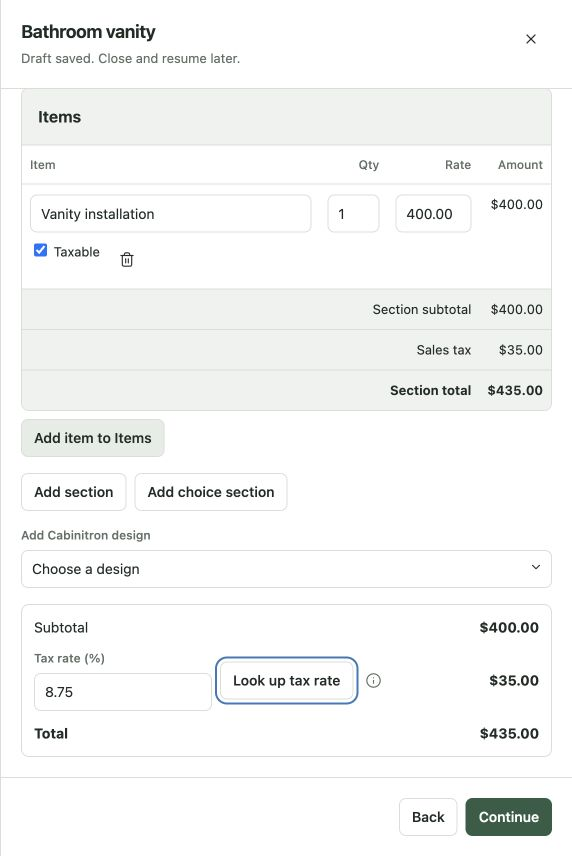
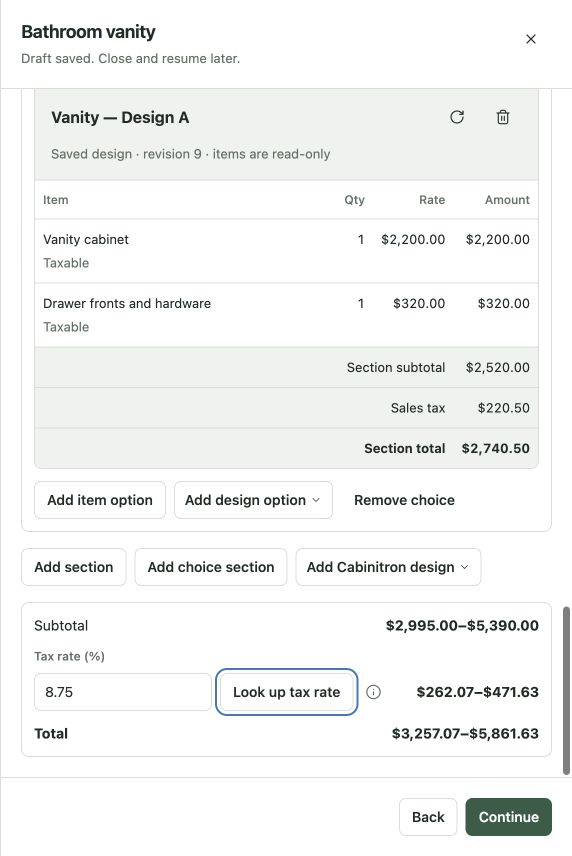
Refine estimate buttons and tax control alignment (#23)
* Use consistent buttons for adding estimate designs

* Match button typography and align estimate tax controls

* Remove unnecessary line-item instruction tooltip

diff --git a/apps/catalog/src/EstimateWorkflowPrototype.tsx b/apps/catalog/src/EstimateWorkflowPrototype.tsx
@@ -1,4 +1,4 @@
-import { useEffect, useRef, useState } from "react";
+import { useEffect, useId, useRef, useState } from "react";
 import * as stylex from "@stylexjs/stylex";
 import {
   Button,
@@ -6,6 +6,7 @@ import {
   DocumentChoiceGroup,
   DocumentSection,
   IconButton,
+  MenuButton,
   InfoTooltip,
   Select,
   SidePanel,
@@ -15,7 +16,7 @@ import {
   type WorkflowStep,
 } from "@from-trees/ui";
 import { layout, gap, padding } from "@from-trees/ui/utilities";
-import { color } from "@from-trees/ui/tokens.stylex";
+import { color, metrics } from "@from-trees/ui/tokens.stylex";
 
 type Row = {
   id: string;
@@ -146,6 +147,12 @@ const s = stylex.create({
     lineHeight: 1.5,
     overflowWrap: "anywhere",
   },
+  taxLabel: {
+    fontSize: metrics.small,
+    fontWeight: 550,
+    color: color.muted,
+    lineHeight: 1.4,
+  },
   field: { minWidth: 120 },
   qty: { width: 52 },
   rate: { width: 76 },
@@ -173,6 +180,7 @@ const s = stylex.create({
 
 /** Interactive catalog composition. All customers, prices, designs and delivery are synthetic. */
 export function EstimateWorkflowPrototype() {
+  const taxInputId = useId();
   const [draft, setDraft] = useState<Draft>(initial),
     [stored, setStored] = useState<Draft | null>(read),
     [open, setOpen] = useState(false),
@@ -313,6 +321,23 @@ export function EstimateWorkflowPrototype() {
     net: subtotal(g),
     tax: total(g, draft.tax) - subtotal(g),
   });
+  const designButton = (choiceId?: string, choiceTitle?: string) => {
+    const text = choiceId ? "Add design option" : "Add Cabinitron design";
+    return locked ? (
+      <Button isDisabled>{text}</Button>
+    ) : (
+      <MenuButton
+        icon={null}
+        text={text}
+        label={choiceId ? `Add design option to ${choiceTitle}` : text}
+        actions={designs.map((name) => ({
+          id: name,
+          label: name,
+          onAction: () => addDesign(name, choiceId),
+        }))}
+      />
+    );
+  };
   const renderGroup = (g: Group, review = false) => {
     const sums = amount(g);
     return (
@@ -553,17 +578,7 @@ export function EstimateWorkflowPrototype() {
                 >
                   Add item option
                 </Button>
-                <Select
-                  aria-label={`Add design option to ${b.title}`}
-                  value=""
-                  disabled={locked}
-                  onChange={(e) => addDesign(e.target.value, b.id)}
-                >
-                  <option value="">Add design option</option>
-                  {designs.map((name) => (
-                    <option key={name}>{name}</option>
-                  ))}
-                </Select>
+                {designButton(b.id, b.title)}
                 <Button
                   variant="ghost"
                   isDisabled={locked}
@@ -582,70 +597,91 @@ export function EstimateWorkflowPrototype() {
       );
   const formattedRange = ([min, max]: [number, number]) =>
     min === max ? money(min) : `${money(min)}–${money(max)}`;
-  const renderSummary = (editable: boolean) => (
-    <section
-      aria-label="Estimate summary"
-      {...stylex.props(s.card, padding.md, layout.stack, gap.md)}
-    >
-      <div {...stylex.props(layout.row, layout.between, gap.sm)}>
-        <span>Subtotal</span>
-        <strong>{formattedRange(range(draft, subtotal))}</strong>
-      </div>
-      <div
-        {...stylex.props(
-          layout.row,
-          layout.wrap,
-          layout.between,
-          layout.alignCenter,
-          gap.sm,
-        )}
+  const renderSummary = (editable: boolean) => {
+    const taxAmount = formattedRange(
+      range(draft, (g) => total(g, draft.tax) - subtotal(g)),
+    );
+    return (
+      <section
+        aria-label="Estimate summary"
+        {...stylex.props(s.card, padding.md, layout.stack, gap.md)}
       >
+        <div {...stylex.props(layout.row, layout.between, gap.sm)}>
+          <span>Subtotal</span>
+          <strong>{formattedRange(range(draft, subtotal))}</strong>
+        </div>
         {editable ? (
+          <div {...stylex.props(layout.stack, gap.sm)}>
+            <label
+              id={`${taxInputId}-label`}
+              htmlFor={taxInputId}
+              {...stylex.props(s.taxLabel)}
+            >
+              Tax rate (%)
+            </label>
+            <div
+              {...stylex.props(
+                layout.row,
+                layout.wrap,
+                layout.between,
+                layout.alignCenter,
+                gap.sm,
+              )}
+            >
+              <div
+                {...stylex.props(
+                  layout.row,
+                  layout.wrap,
+                  layout.alignCenter,
+                  gap.sm,
+                )}
+              >
+                <TextInput
+                  id={taxInputId}
+                  aria-labelledby={`${taxInputId}-label`}
+                  inputMode="decimal"
+                  value={draft.tax}
+                  disabled={locked}
+                  onChange={(e) => patch({ tax: e.target.value })}
+                />
+                <Button
+                  isDisabled={locked}
+                  onPress={() => {
+                    setFound(false);
+                    setTaxOpen(true);
+                  }}
+                >
+                  Look up tax rate
+                </Button>
+                <InfoTooltip label="tax rate">
+                  One rate from zero to one hundred percent applies to taxable
+                  rows. California lookup returns a sample rate in this catalog;
+                  applying it requires Update tax rate.
+                </InfoTooltip>
+              </div>
+              <strong aria-label="Estimate tax amount">{taxAmount}</strong>
+            </div>
+          </div>
+        ) : (
           <div
             {...stylex.props(
               layout.row,
-              layout.wrap,
+              layout.between,
               layout.alignCenter,
               gap.sm,
             )}
           >
-            <TextInput
-              label="Tax rate (%)"
-              inputMode="decimal"
-              value={draft.tax}
-              disabled={locked}
-              onChange={(e) => patch({ tax: e.target.value })}
-            />
-            <Button
-              isDisabled={locked}
-              onPress={() => {
-                setFound(false);
-                setTaxOpen(true);
-              }}
-            >
-              Look up tax rate
-            </Button>
-            <InfoTooltip label="tax rate">
-              One rate from zero to one hundred percent applies to taxable rows.
-              California lookup returns a sample rate in this catalog; applying
-              it requires Update tax rate.
-            </InfoTooltip>
+            <span>Sales tax ({draft.tax}%)</span>
+            <strong aria-label="Estimate tax amount">{taxAmount}</strong>
           </div>
-        ) : (
-          <span>Sales tax ({draft.tax}%)</span>
         )}
-        <strong aria-label="Estimate tax amount">
-          {formattedRange(
-            range(draft, (g) => total(g, draft.tax) - subtotal(g)),
-          )}
-        </strong>
-      </div>
-      <div {...stylex.props(layout.row, layout.between, gap.sm)}>
-        <strong>Total</strong>
-        <strong>{formattedRange([low, high])}</strong>
-      </div>
-    </section>
-  );
+        <div {...stylex.props(layout.row, layout.between, gap.sm)}>
+          <strong>Total</strong>
+          <strong>{formattedRange([low, high])}</strong>
+        </div>
+      </section>
+    );
+  };
   return (
     <section {...stylex.props(layout.stack, gap.lg)}>
       <h1 {...stylex.props(s.heading)}>Create an estimate</h1>
@@ -793,12 +829,6 @@ export function EstimateWorkflowPrototype() {
           )}
           {draft.step === 1 && (
             <>
-              <InfoTooltip label="line item values">
-                Use quantities greater than zero and prices at least zero.
-                Quantities round to three decimal places and USD prices round to
-                cents when leaving a field. Each choice requires at least two
-                complete alternatives. Tax applies only to taxable items.
-              </InfoTooltip>
               {renderBlocks()}
               <div {...stylex.props(layout.row, layout.wrap, gap.sm)}>
                 <Button
@@ -828,18 +858,9 @@ export function EstimateWorkflowPrototype() {
                 >
                   Add choice section
                 </Button>
+                {designButton()}
               </div>
-              <Select
-                label="Add Cabinitron design"
-                value=""
-                disabled={locked}
-                onChange={(e) => addDesign(e.target.value)}
-              >
-                <option value="">Choose a design</option>
-                {designs.map((name) => (
-                  <option key={name}>{name}</option>
-                ))}
-              </Select>
+
               {renderSummary(true)}
             </>
           )}

diff --git a/apps/catalog/test/EstimateWorkflowPrototype.test.tsx b/apps/catalog/test/EstimateWorkflowPrototype.test.tsx
@@ -106,9 +106,17 @@ it("edits rows directly, applies tax only through the lookup update and complete
 });
 it("adds read-only design rows immediately and invalidates the package when refreshing the design", async () => {
   const user = await start();
-  await user.selectOptions(
-    screen.getByLabelText("Add Cabinitron design"),
-    "Vanity — Design A",
+  expect(
+    screen.queryByRole("combobox", { name: "Add Cabinitron design" }),
+  ).not.toBeInTheDocument();
+  await user.click(
+    screen.getByRole("button", { name: "Add Cabinitron design", exact: true }),
+  );
+  await user.click(
+    await screen.findByRole("menuitem", {
+      name: "Vanity — Design A",
+      exact: true,
+    }),
   );
   expect(screen.getByText("Vanity cabinet")).toBeVisible();
   const header = screen
@@ -188,13 +196,29 @@ it("adds arbitrary saved designs as options without assuming a finish or prebuil
   expect(
     screen.queryByRole("heading", { name: "Option 1" }),
   ).not.toBeInTheDocument();
-  await user.selectOptions(
-    screen.getByLabelText("Add design option to Design options"),
-    "Vanity — Design A",
+  await user.click(
+    screen.getByRole("button", {
+      name: "Add design option to Design options",
+      exact: true,
+    }),
   );
-  await user.selectOptions(
-    screen.getByLabelText("Add design option to Design options"),
-    "Vanity — Design B",
+  await user.click(
+    await screen.findByRole("menuitem", {
+      name: "Vanity — Design A",
+      exact: true,
+    }),
+  );
+  await user.click(
+    screen.getByRole("button", {
+      name: "Add design option to Design options",
+      exact: true,
+    }),
+  );
+  await user.click(
+    await screen.findByRole("menuitem", {
+      name: "Vanity — Design B",
+      exact: true,
+    }),
   );
   const choice = screen.getByRole("group", { name: "Design options" });
   expect(

diff --git a/packages/ui/src/MenuButton.tsx b/packages/ui/src/MenuButton.tsx
@@ -29,6 +29,10 @@ const styles = stylex.create({
     boxSizing: "border-box",
     margin: 0,
     textTransform: "none",
+    fontFamily: "inherit",
+    fontSize: "inherit",
+    fontWeight: 550,
+    lineHeight: 1.3,
     display: "inline-flex",
     alignItems: "center",
     justifyContent: "center",
@@ -90,7 +94,7 @@ export function MenuButton({
   actions,
 }: {
   label?: string;
-  icon?: IconName;
+  icon?: IconName | null;
   text?: string;
   actions: readonly Action[];
 }) {
@@ -102,9 +106,11 @@ export function MenuButton({
         {...stylex.props(styles.trigger, !!text && styles.labeledTrigger)}
       >
         <span title={label} {...stylex.props(styles.triggerContents)}>
-          <Icon name={icon} size={18} />
+          {icon && <Icon name={icon} size={18} />}
           {text && <span>{text}</span>}
-          {(text || icon !== "more") && <Icon name="chevronDown" size={12} />}
+          {(text || (icon && icon !== "more")) && (
+            <Icon name="chevronDown" size={12} />
+          )}
         </span>
       </AriaButton>
       <Popover

diff --git a/docs/estimate-workflow.md b/docs/estimate-workflow.md
@@ -3,7 +3,7 @@
 Open **Create estimates** in the catalog, or `/?example=estimate-workflow`, then **Create new estimate**. This is a working catalog composition using the existing workflow side panel, WorkflowProgress, DocumentSection, DocumentChoiceGroup, fields, buttons and dialogs. The shared DocumentSection adds compact header actions, optional inline title/description editing and footer actions. DocumentChoiceGroup also supports inline title/description editing. These remain presentation callbacks; no application data model changes are included.
 
 1. **Start estimate** — enter the name, select/create a customer and choose an expiration date. Save and continue requires all three, and saves a resumable example draft. Closing and resuming restores edits and the current step.
-2. **Add line items** — edit descriptions, quantities, USD unit rates and Taxable flags in customer-style tables. Add sections with titles, descriptions and separate subtotals. Regular sections and choice options are each one card: click their header title or description to edit in place. Enter or blur saves, Escape cancels without closing the workflow. There are no duplicate metadata fields above the cards. Remove stays in the header; Add item stays inside the card footer. Create a choice section first, then add saved design options or line-item alternatives directly inside it. A new choice is generically titled **Design options**, starts empty and makes no assumption about finishes, materials, dimensions or layout. Its title and description are editable. **Add design option** selects any saved sample design; **Add item option** creates an alternative containing an editable first row. Each choice needs at least two complete alternatives. Adding a design immediately supplies read-only rows and its subtotal. Update and remove icon controls sit alongside the design title in its shaded header. **Update to latest revision** explicitly refreshes the sample design and invalidates its old package.
+2. **Add line items** — edit descriptions, quantities, USD unit rates and Taxable flags in customer-style tables. Add sections with titles, descriptions and separate subtotals. Regular sections and choice options are each one card: click their header title or description to edit in place. Enter or blur saves, Escape cancels without closing the workflow. There are no duplicate metadata fields above the cards. Remove stays in the header; Add item stays inside the card footer. Create a choice section first, then add saved design options or line-item alternatives directly inside it. A new choice is generically titled **Design options**, starts empty and makes no assumption about finishes, materials, dimensions or layout. Its title and description are editable. **Add design option** and **Add Cabinitron design** are consistent labeled buttons without redundant plus icons that open the same saved-design menu. Their typography matches ordinary action buttons (inherited font family/size, weight 550). The first adds to its choice; the second adds a standalone design group alongside Add section/Add choice section. **Add design option** selects any saved sample design; **Add item option** creates an alternative containing an editable first row. Each choice needs at least two complete alternatives. Adding a design immediately supplies read-only rows and its subtotal. Update and remove icon controls sit alongside the design title in its shaded header. **Update to latest revision** explicitly refreshes the sample design and invalidates its old package.
 3. **Prepare documents** — generate/rebuild a customer package for the exact revision of each linked design, including options. Continue remains unavailable until every linked design has a matching package. Additional PDF/PNG/JPEG files can be selected and removed. Native designs are optional.
 4. **Set T&C** — edit the terms for this estimate, without changing a global template. Empty terms prevent continuation.
 5. **Review and finalize** — review the same section tables, option groups, overall summary, customer, expiration, documents and terms. Finalization locks earlier fields. **Prepare a new revision** enables edits again without representing them as an in-place edit to an issued document.
@@ -11,7 +11,7 @@ Open **Create estimates** in the catalog, or `/?example=estimate-workflow`, then
 
 The entire estimate summary is **Subtotal → tax rate and tax amount → Total**. Section subtotals remain in their own tables. Each row's tax is rounded to cents and tax-exempt rows are excluded. With unresolved customer choices, subtotal, tax and total each show the appropriate range across alternatives; shared work is included once. The customer-facing estimate's exact selected-price journey remains a separate pattern.
 
-The tax lookup button sits beside the overall tax-rate field. It opens a California address dialog; finding a sample result does not change the estimate. **Update tax rate** explicitly applies the result and closes the dialog. Editing the lookup address invalidates the previously found result. This catalog returns a clearly identified synthetic rate, not a live tax determination.
+The tax lookup button aligns with the overall tax-rate input itself, with the label above both controls. The input, lookup button, help icon and tax amount share the same control row. It opens a California address dialog; finding a sample result does not change the estimate. **Update tax rate** explicitly applies the result and closes the dialog. Editing the lookup address invalidates the previously found result. This catalog returns a clearly identified synthetic rate, not a live tax determination.
 
 ## Persistence and application boundary
 
@@ -27,7 +27,10 @@ Browser inspection exercised the start, item editing, lookup, design refresh, pa
 
 ![Start](review/estimate-workflow/start.png)
 ![Overall subtotal, tax and total](review/estimate-workflow/summary.png)
+![Aligned tax control row](review/estimate-workflow/tax-aligned.png)
 ![Explicit California lookup application](review/estimate-workflow/tax.png)
+![Consistent add-design buttons](review/estimate-workflow/design-buttons.png)
+![Saved-design menu](review/estimate-workflow/design-picker.png)
 ![Design actions in the header](review/estimate-workflow/design-options.png)
 ![Consolidated editable option](review/estimate-workflow/option-inline.png)
 ![Consolidated regular section](review/estimate-workflow/regular-inline.png)
